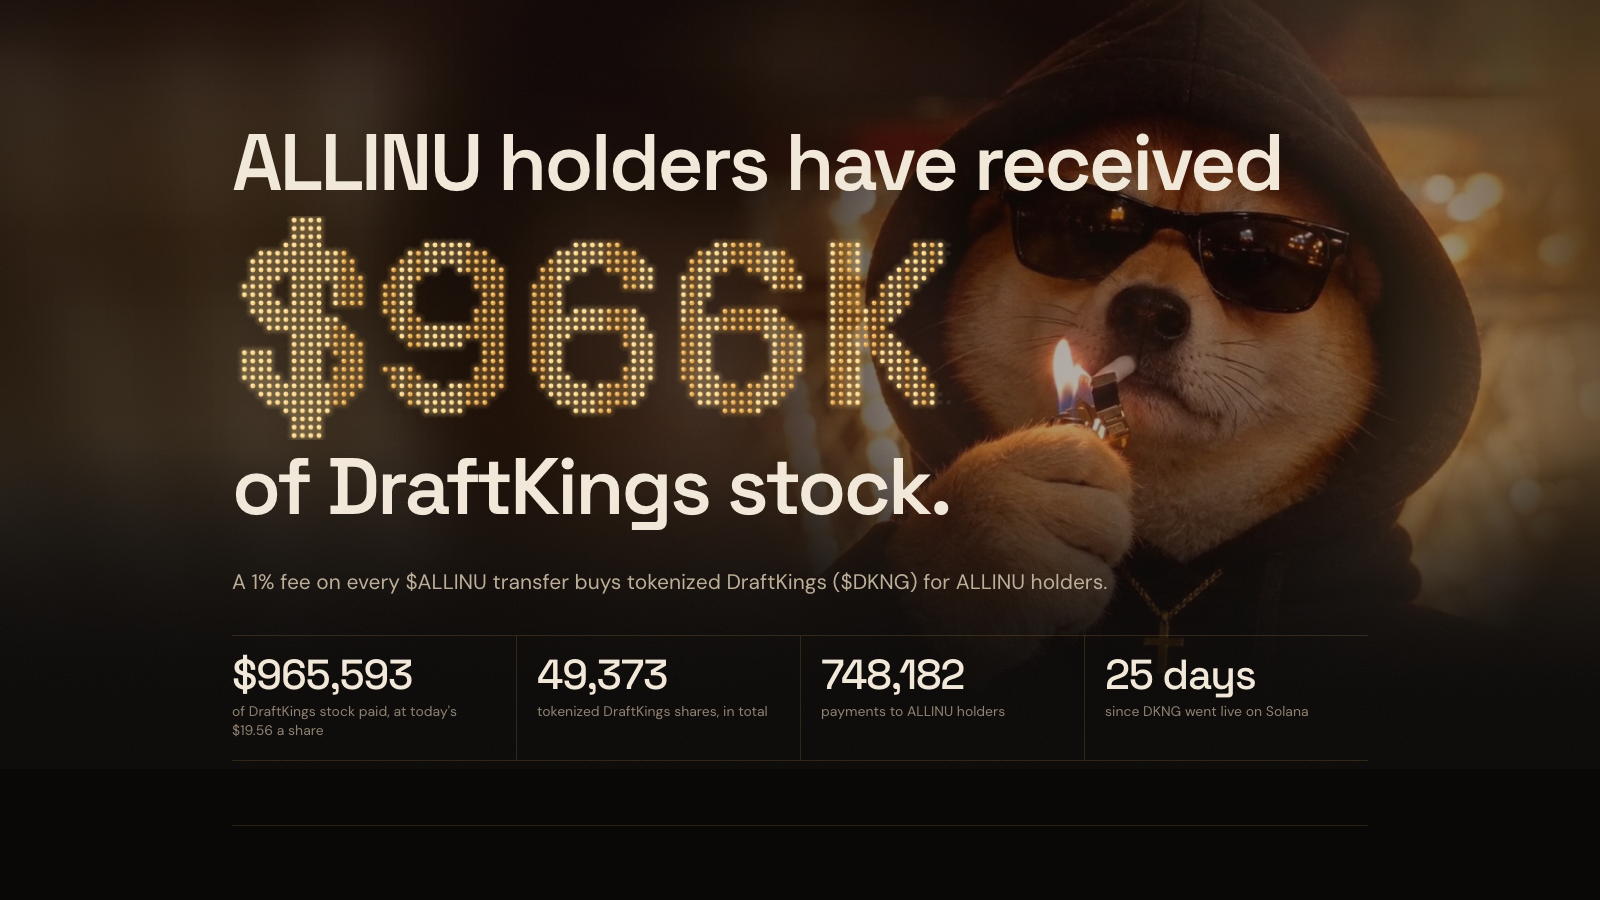
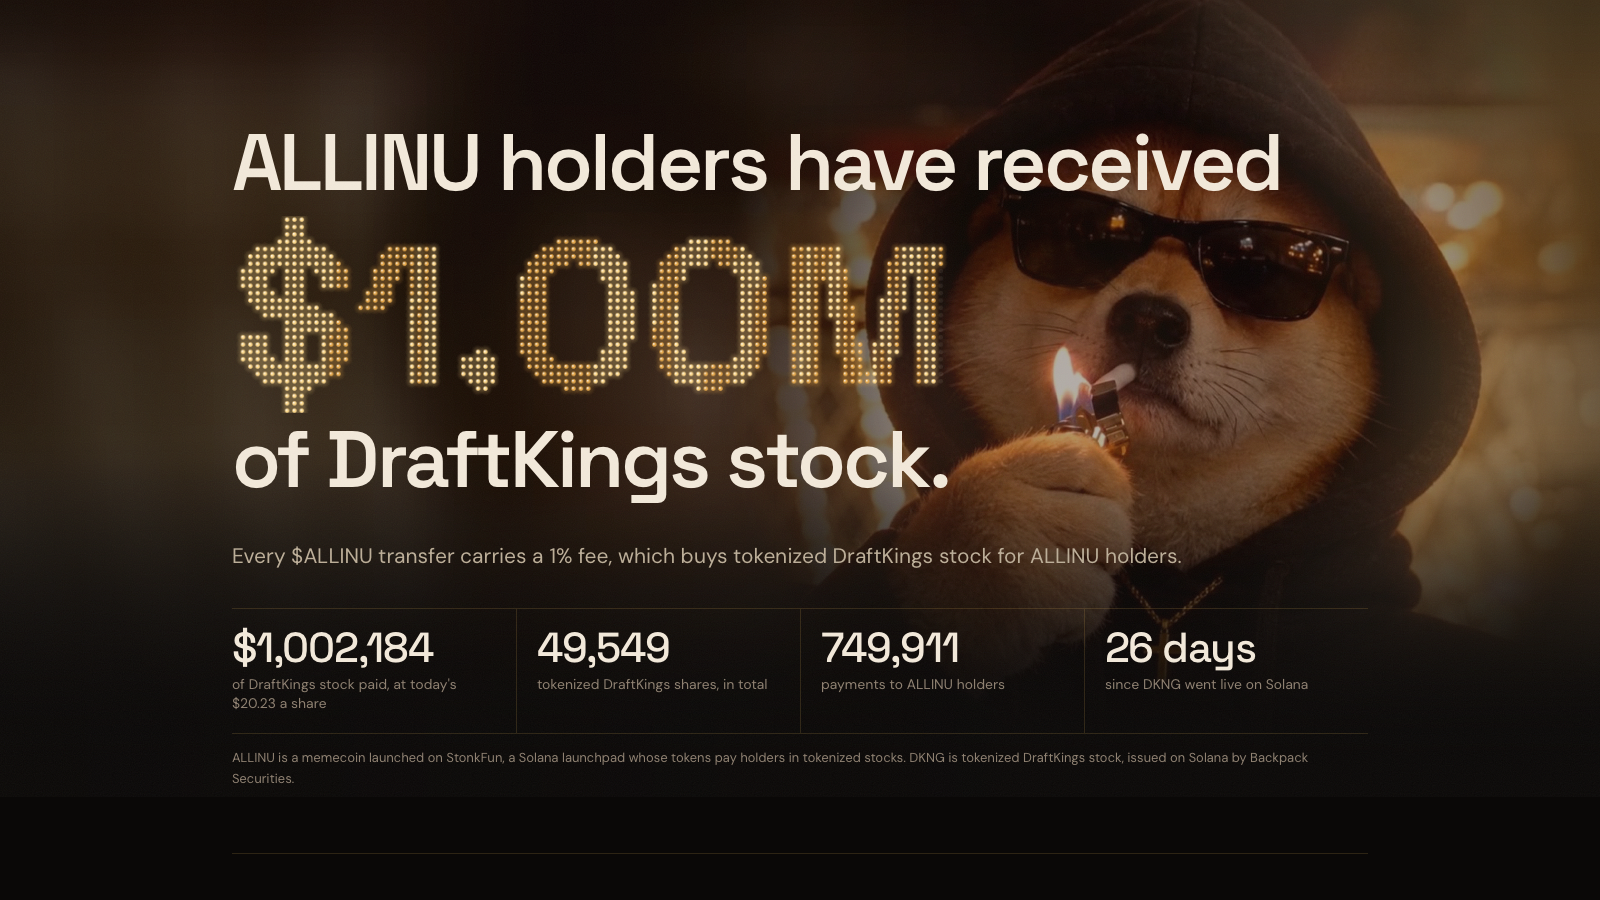
Link preview image from today's page: $1.00M

diff --git a/index.html b/index.html
@@ -9,13 +9,13 @@
 <meta property="og:description" content="Rewards, holders, volume, liquidity and supply, computed from public onchain data by open-source code.">
 <meta property="og:type" content="website">
 <meta property="og:url" content="https://allinu-dkng-stats.pages.dev/">
-<meta property="og:image" content="https://allinu-dkng-stats.pages.dev/og.png">
+<meta property="og:image" content="https://allinu-dkng-stats.pages.dev/og.png?v=2026-10-06">
 <meta property="og:image:width" content="1600">
 <meta property="og:image:height" content="900">
 <meta name="twitter:card" content="summary_large_image">
 <meta name="twitter:title" content="ALLINU holders get paid in tokenized DraftKings stock">
 <meta name="twitter:description" content="Rewards, holders, volume, liquidity and supply, computed from public onchain data by open-source code.">
-<meta name="twitter:image" content="https://allinu-dkng-stats.pages.dev/og.png">
+<meta name="twitter:image" content="https://allinu-dkng-stats.pages.dev/og.png?v=2026-10-06">
 <meta name="theme-color" content="#0a0807">
 <link rel="icon" href="allinu.png">
 <link rel="preconnect" href="https://fonts.googleapis.com" crossorigin>
